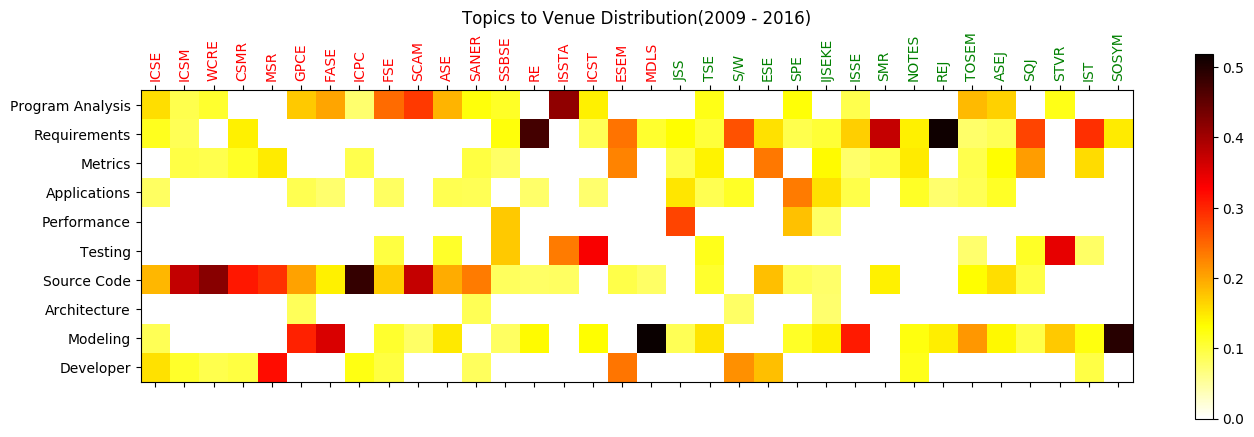
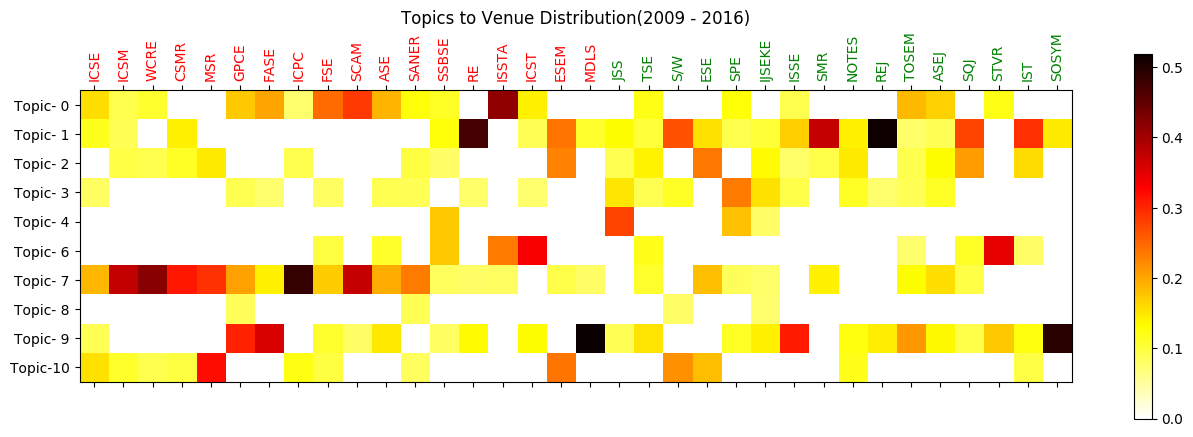
Changed settigns

diff --git a/expts/expts_v4.py b/expts/expts_v4.py
@@ -35,9 +35,9 @@ TOPICS_ALL = ["Program Analysis", "Requirements", "Metrics", "Applications",
 
 TOPIC_THRESHOLD = 3
 
-# Settings
+# Global Settings
 THE = O()
-THE.permitted = "all"
+THE.permitted = "all"  # conference/journal/all
 THE.version = "v4"
 THE.use_numeric = False
 
@@ -56,6 +56,7 @@ COLORS_ALL = ["lightgray", "red", "blue", "darkslategray",
 
 
 MIN_DIVERSITY_SCORE = 0.075
+
 
 def mkdir(directory):
   """
@@ -102,6 +103,10 @@ CONFERENCES = [shorter_names(conf.acronym) for conf in mysqldb.get_conferences()
 
 @Memoized
 def retrieve_graph_lda_data():
+  """
+  Fetch stored metadata
+  :return:
+  """
   graph_file = 'cache/%s/%s/graph.pkl' % (THE.version, THE.permitted)
   vectorizer_file = 'cache/%s/%s/vectorizer.pkl' % (THE.version, THE.permitted)
   doc_2_vec_file = 'cache/%s/%s/doc_2_vec.pkl' % (THE.version, THE.permitted)
@@ -181,7 +186,7 @@ def report(lda_model, vocab, fig_name="topic_dist", n_top_words=10, plot_terms=5
     topic_words = np.array(vocab)[np.argsort(topic_dist)][:-(n_top_words + 1):-1]
     legends.append("Topic %d" % index)
     # legends.append(TOPICS_ALL[index])
-    print('%2d : %16s : %s' % (index, TOPICS_ALL[index].upper(), ', '.join(topic_words)))
+    print('%2d : %16s : %s' % (index, get_topics()[index].upper(), ', '.join(topic_words)))
   plt.legend(legends, loc='upper right')
   plt.title(fig_name)
   plt.xlabel("Term Index")
@@ -898,10 +903,10 @@ def yearly_compare_gender_topics(years, source="topic_contribution", target="sta
 
 def _main():
   reporter()
-  # diversity("heatmap_09_16", range(2009, 2017), save_labels=True)
+  diversity("heatmap_09_16", range(2009, 2017), save_labels=True)
   # diversity("heatmap_01_08", range(2001, 2009))
   # diversity("heatmap_93_00", range(1992, 2001))
-  # topic_evolution(venue="all")
+  topic_evolution(venue="all")
   # topic_evolution(venue="conferences")
   # topic_evolution(venue="journals")
   # gender_over_time()
@@ -924,7 +929,6 @@ def _main():
   # print_gender_topics("yearly_stat_11_12")
   # print_gender_topics("yearly_stat_13_14")
   # print_gender_topics("yearly_stat_15_16")
-
 
 
 if __name__ == "__main__":
